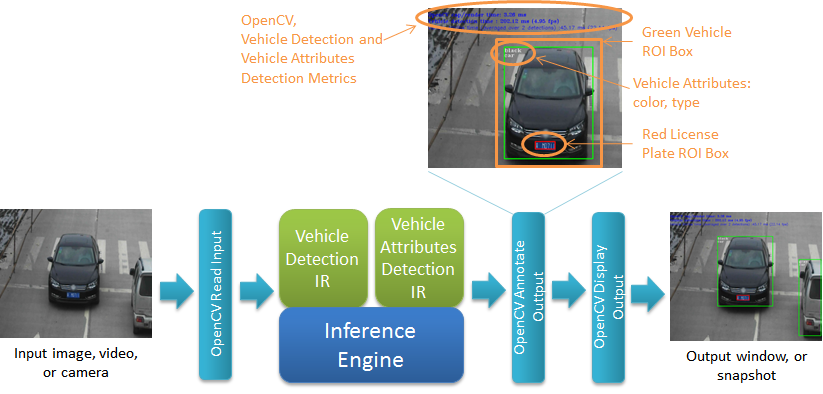
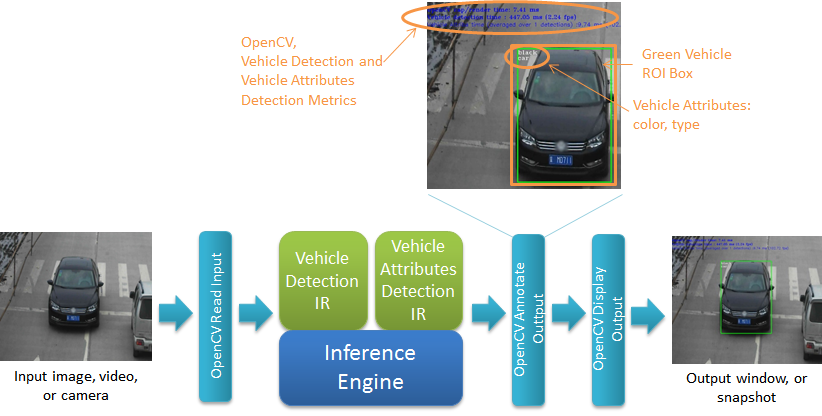
update car images

diff --git a/car_detection_tutorial/step_4/Readme.md b/car_detection_tutorial/step_4/Readme.md
@@ -49,7 +49,7 @@ cd tutorials/computer-vision-inference-dev-kit-tutorials/car_detection_tutorial/
 
 ## Command Line Arguments
 
-The command line argument -n_async has been added to control how many outstanding API requests are to be allowed when running each model.  Setting -n_async to 1 is effectively the same as synchronous mode since later stages in the pipeline will not have anything to do until the results appear.  The following code in car_detection.hpp adds the -n_async argument to appear in the code as the variable PARAMETERS_n_async:
+The command line argument n_async has been added to control how many outstanding API requests are to be allowed when running each model.  Setting n_async to 1 is effectively the same as synchronous mode since later stages in the pipeline will not have anything to do until the results appear.  The following code in car_detection.hpp adds the n_async argument to appear in the code as the variable PARAMETERS_n_async:
 
 ``` Cpp
 /// @brief message async function flag
@@ -93,7 +93,7 @@ In the code:
 
 * outputRequest - holds the current output request for retrieving outputs
 
-* maxSubmittedRequests - the maximum number of outstanding requests allowed (set using -n_async)
+* maxSubmittedRequests - the maximum number of outstanding requests allowed (set using n_async)
 
 ### BaseDetection()
 
@@ -272,10 +272,16 @@ enqueue() has the changes:
 ```
 
 
-2. The single "request" has been replaced to use current input request “requests[inputRequestIdx]”:
+2. The single "request" has been replaced to use current input request “requests[inputRequestIdx]” when using auto resize or not:
 
-```cpp
-        auto  inputBlob = requests[inputRequestIdx]->GetBlob(input);
+```Cpp
+       if (FLAGS_auto_resize) {
+            inputBlob = wrapMat2Blob(frame);
+            requests[inputRequestIdx]->SetBlob(input, inputBlob);
+       } else {
+		inputBlob = requests[inputRequestIdx]->GetBlob(input);
+		matU8ToBlob<uint8_t >(frame, inputBlob, enquedFrames);
+    	 }
 ```
 
 
@@ -329,10 +335,17 @@ enqueue() has the changes:
 ```
 
 
-2. The single "request" has been replaced to use current input request “requests[inputRequestIdx]”:
+2. The single "request" has been replaced to use current input request “requests[inputRequestIdx]” when using auto resize or not:
 
 ```cpp
-        auto  inputBlob = requests[inputRequestIdx]->GetBlob(input);
+        if (FLAGS_auto_resize) {
+            // ... same cropping code ... 
+            requests[inputRequestIdx]->SetBlob(inputName, inputBlob);
+        } else {
+        	// ... same cropping code ... 
+        	inputBlob = requests[inputRequestIdx]->GetBlob(inputName);
+		matU8ToBlob<uint8_t >(cropped, inputBlob, enquedVehicles);
+    	}
 ```
 
 
@@ -523,7 +536,7 @@ Stage #1 is responsible for checking for and then processing vehicle inference r
 ```
 
 
-6. The results are iterated through putting detected vehicles and license plates with the associated input frame:
+6. The results are iterated through putting detected vehicles and license plates (if model detects licenses plates too) with the associated input frame:
 
 ```Cpp
 				// store results for next pipeline stage
@@ -591,9 +604,7 @@ Stage #1 from Tutorial Step 3 does both submit and wait for a inference request.
 						if (VehicleAttribs.enquedVehicles >= VehicleAttribs.maxBatch) {
 							break;
 						}
-						auto clippedRect = ps1s2i.vehicleLocations[rib] & cv::Rect(0, 0, width, height);
-						auto Vehicle = (*ps1s2i.outputFrame)(clippedRect);
-						VehicleAttribs.enqueue(Vehicle);
+						VehicleAttribs.enqueue(*ps1s2i.outputFrame, ps1s2i.vehicleLocations[rib]);
 					}
 ```
 
@@ -901,7 +912,7 @@ For flexibility and to minimize rebuilding and re-uploading the sketch when para
 
 ![image alt text](../doc_support/step4_image_19.png)
 
-4. You may notice that default value for the parameter "m" is pretty long and may need to change especially when wanting to use an FP16 model for a device.  To make this easier, included in the tutorial “car_detection.hpp” code are additional parameters: “mVLP32” and “mVLP16”.  Instead of copying the full path, the parameter string’s ability to reference other parameters may be used such as “m=$mVLP16” which will change parameter “m” to now point to the FP16 version of the model as shown below.
+4. You may notice that default value for the parameter "m" is pretty long and may need to change especially when wanting to use an FP16 model for a device.  To make this easier, included in the tutorial “car_detection.hpp” code are additional parameters: “mVDR32” and “mVDR16”.  Instead of copying the full path, the parameter string’s ability to reference other parameters may be used such as “m=$mVDR16” which will change parameter “m” to now point to the FP16 version of the model as shown below.
 
 ![image alt text](../doc_support/step4_image_20.png)
 
@@ -914,14 +925,14 @@ For flexibility and to minimize rebuilding and re-uploading the sketch when para
 1. First, let us see how it works on a single image file using default synchronous mode.  Use the parameter settings string:
 
 ```
-m=$mVLP32 m_va=$mVA32 i=tutorials/computer-vision-inference-dev-kit-tutorials/car_detection_tutorial/data/car_1.bmp
+m=$mVDR32 m_va=$mVA32 i=tutorials/computer-vision-inference-dev-kit-tutorials/car_detection_tutorial/data/car_1.bmp
 ```
 
 
-2. The output window will show the image overlaid with colored rectangles over the cars and license plate along with and the timing statistics for computing the results.  Run the command again in asynchronous mode using the parameter setting "n_async=2":
+2. The output window will show the image overlaid with colored rectangles over the cars and license plate (if model detects licenses plates too) along with and the timing statistics for computing the results.  Run the command again in asynchronous mode using the parameter setting "n_async=2":
 
 ```
-m=$mVLP32 m_va=$mVA32 i=tutorials/computer-vision-inference-dev-kit-tutorials/car_detection_tutorial/data/car_1.bmp -n_async 2
+m=$mVDR32 m_va=$mVA32 i=tutorials/computer-vision-inference-dev-kit-tutorials/car_detection_tutorial/data/car_1.bmp n_async=2
 ```
 
 
@@ -930,25 +941,25 @@ m=$mVLP32 m_va=$mVA32 i=tutorials/computer-vision-inference-dev-kit-tutorials/ca
 4. Next, let us try it on a video file.  Use the parameter settings string:
 
 ```
-m=$mVLP32 m_va=$mVA32 i=tutorials/computer-vision-inference-dev-kit-tutorials/car_detection_tutorial/data/car-detection.mp4 n_async=1
+m=$mVDR32 m_va=$mVA32 i=tutorials/computer-vision-inference-dev-kit-tutorials/car_detection_tutorial/data/cars_768x768.h264 n_async=1
 ```
 
 
 5. Over each frame of the video, you will see green rectangles drawn around the cars as they move through the parking lot.  Now run the command again in asynchronous mode using the parameter setting "n_async=2":
 
 ```
-m=$mVLP32 m_va=$mVA32 i=tutorials/computer-vision-inference-dev-kit-tutorials/car_detection_tutorial/data/car-detection.mp4 -n_async 2
+m=$mVDR32 m_va=$mVA32 i=tutorials/computer-vision-inference-dev-kit-tutorials/car_detection_tutorial/data/cars_768x768.h264 n_async=2
 ```
 
 
 6. Unexpectedly, asynchronous mode should have made the video take longer to run by >10%.  Why would that be?  With the main loop now running asynchronously and not blocking, it is now an additional thread running on the CPU along with the inference models.  Now let us shift running the models to other devices, first in synchronous mode then asynchronous with increasing n_async value using the using the parameter settings strings:
 
 ```
-m=$mVLP16 d=GPU m_va=$mVA16 d_va=MYRIAD i=tutorials/computer-vision-inference-dev-kit-tutorials/car_detection_tutorial/data/car-detection.mp4 n_async=1
-m=$mVLP16 d=GPU m_va=$mVA16 d_va=MYRIAD i=tutorials/computer-vision-inference-dev-kit-tutorials/car_detection_tutorial/data/car-detection.mp4 n_async=2
-m=$mVLP16 d=GPU m_va=$mVA16 d_va=MYRIAD i=tutorials/computer-vision-inference-dev-kit-tutorials/car_detection_tutorial/data/car-detection.mp4 n_async=4
-m=$mVLP16 d=GPU m_va=$mVA16 d_va=MYRIAD i=tutorials/computer-vision-inference-dev-kit-tutorials/car_detection_tutorial/data/car-detection.mp4 n_async=8
-m=$mVLP16 d=GPU m_va=$mVA16 d_va=MYRIAD i=tutorials/computer-vision-inference-dev-kit-tutorials/car_detection_tutorial/data/car-detection.mp4 n_async=16
+m=$mVDR16 d=GPU m_va=$mVA16 d_va=MYRIAD i=tutorials/computer-vision-inference-dev-kit-tutorials/car_detection_tutorial/data/cars_768x768.h264 n_async=1
+m=$mVDR16 d=GPU m_va=$mVA16 d_va=MYRIAD i=tutorials/computer-vision-inference-dev-kit-tutorials/car_detection_tutorial/data/cars_768x768.h264 n_async=2
+m=$mVDR16 d=GPU m_va=$mVA16 d_va=MYRIAD i=tutorials/computer-vision-inference-dev-kit-tutorials/car_detection_tutorial/data/cars_768x768.h264 n_async=4
+m=$mVDR16 d=GPU m_va=$mVA16 d_va=MYRIAD i=tutorials/computer-vision-inference-dev-kit-tutorials/car_detection_tutorial/data/cars_768x768.h264 n_async=8
+m=$mVDR16 d=GPU m_va=$mVA16 d_va=MYRIAD i=tutorials/computer-vision-inference-dev-kit-tutorials/car_detection_tutorial/data/cars_768x768.h264 n_async=16
 ```
 
 
